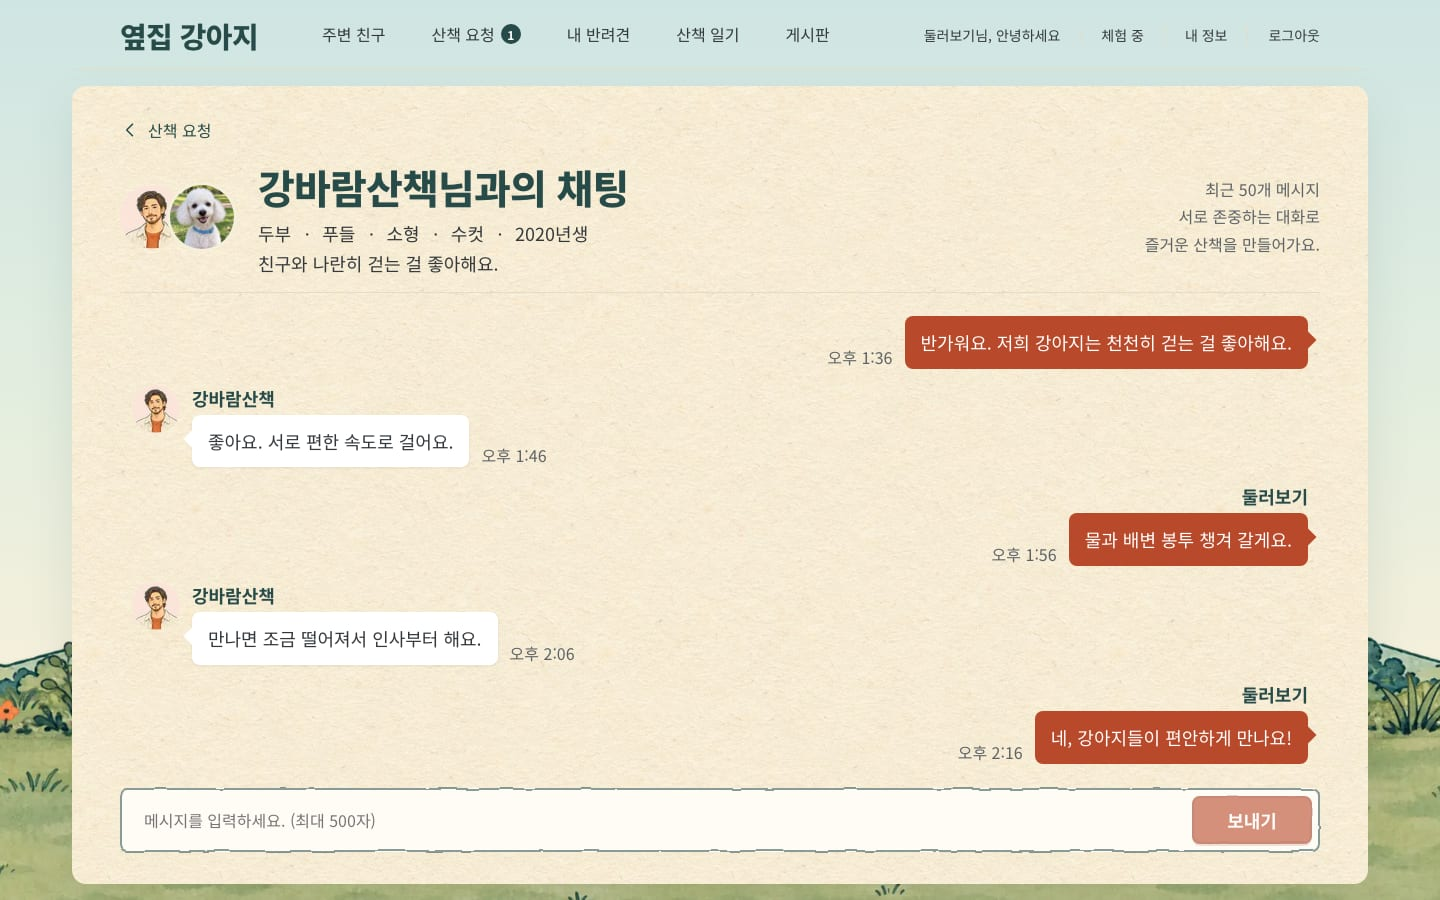
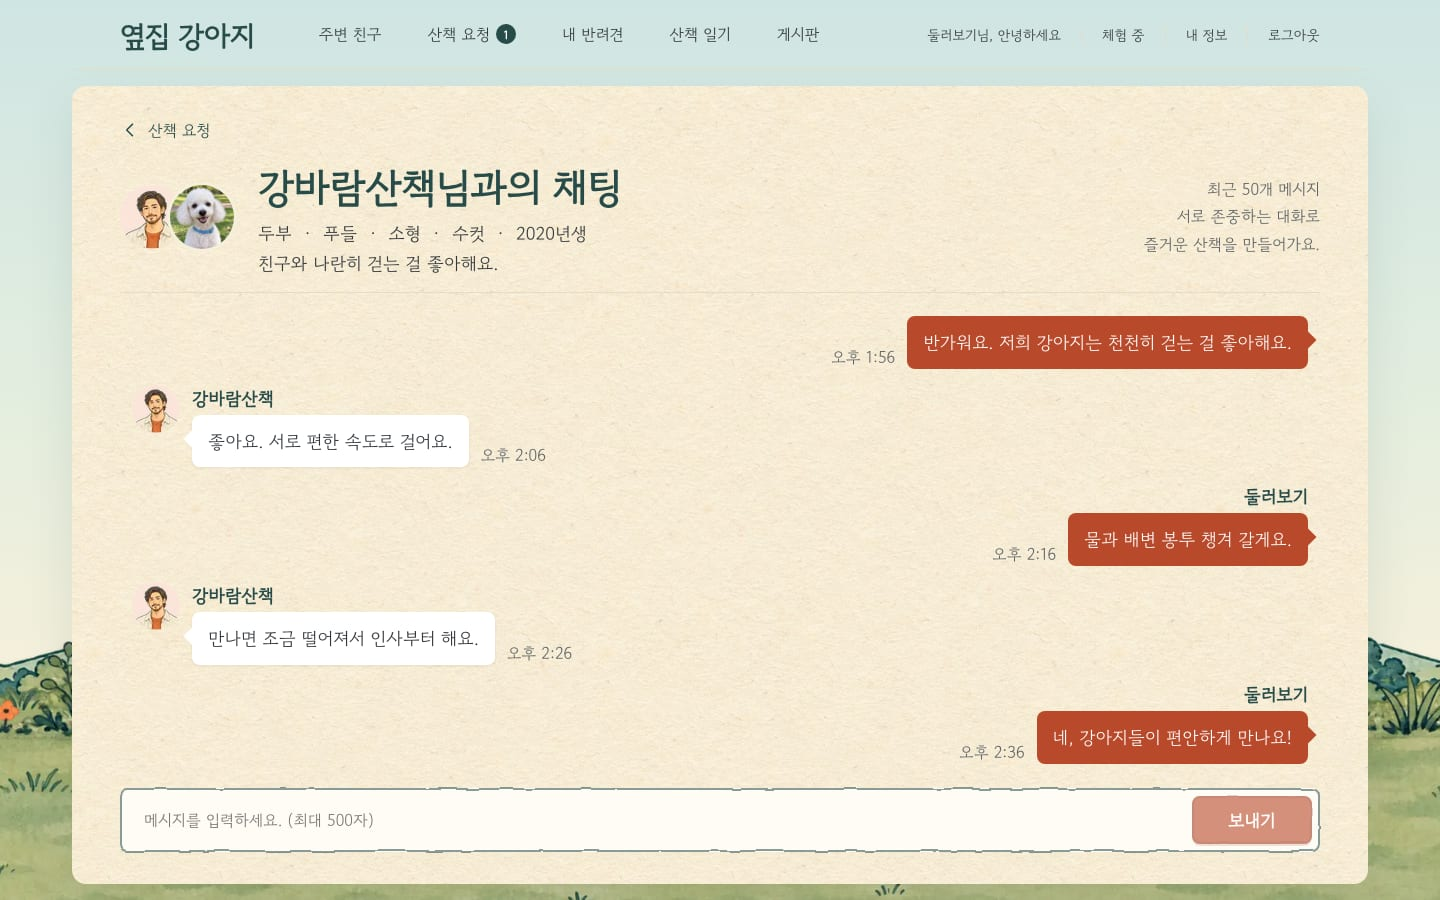
Use Gowun Dodum for all text instead of Noto Sans KR and Jua, and redraw the link preview title and README screenshots in it

diff --git a/web/app/layout.tsx b/web/app/layout.tsx
@@ -1,5 +1,5 @@
 import type { Metadata } from "next";
-import { Jua, Noto_Sans_KR } from "next/font/google";
+import { Gowun_Dodum } from "next/font/google";
 import "./globals.css";
 import { AuthProvider } from "./_components/auth-provider";
 import { FieldScene } from "./_components/field-scene";
@@ -12,16 +12,10 @@ import { Intro } from "./_components/intro";
 import { introHeadScript } from "./_components/intro-seen";
 
 // Korean glyphs load on demand by unicode range, so only latin is preloaded.
-const notoSansKr = Noto_Sans_KR({
-  subsets: ["latin"],
-  variable: "--font-sans",
-});
-
-// The round title font of the intro and the guest welcome.
-const jua = Jua({
+const gowunDodum = Gowun_Dodum({
   weight: "400",
   subsets: ["latin"],
-  variable: "--font-display",
+  variable: "--font-sans",
 });
 
 const title = "옆집 강아지";
@@ -42,7 +36,7 @@ const RootLayout = ({ children, modal }: LayoutProps<"/">) => {
   return (
     <html
       lang="ko"
-      className={`${notoSansKr.variable} ${jua.variable}`}
+      className={gowunDodum.variable}
       suppressHydrationWarning
     >
       <head>

diff --git a/web/app/page.module.css b/web/app/page.module.css
@@ -232,7 +232,6 @@
 /* The title shrinks with the window so it stays on two lines above the
    field beside the card. */
 .welcome .title {
-  font-family: var(--font-display), var(--font-sans), sans-serif;
   font-size: clamp(32px, 2.8vw, 42px);
   font-weight: 400;
   letter-spacing: 0;

diff --git a/web/app/_components/login-welcome.module.css b/web/app/_components/login-welcome.module.css
@@ -19,7 +19,6 @@
   background: var(--accent-soft);
   box-shadow: var(--shadow-card);
   color: var(--ink);
-  font-family: var(--font-display), var(--font-sans), sans-serif;
   font-size: var(--text-xl);
   text-align: center;
   overflow-wrap: anywhere;

diff --git a/web/app/_components/intro.module.css b/web/app/_components/intro.module.css
@@ -33,7 +33,6 @@
 }
 .title strong {
   display: block;
-  font-family: var(--font-display), var(--font-sans), sans-serif;
   font-size: clamp(36px, 6vw, 72px);
   font-weight: 400;
   line-height: 1.2;
